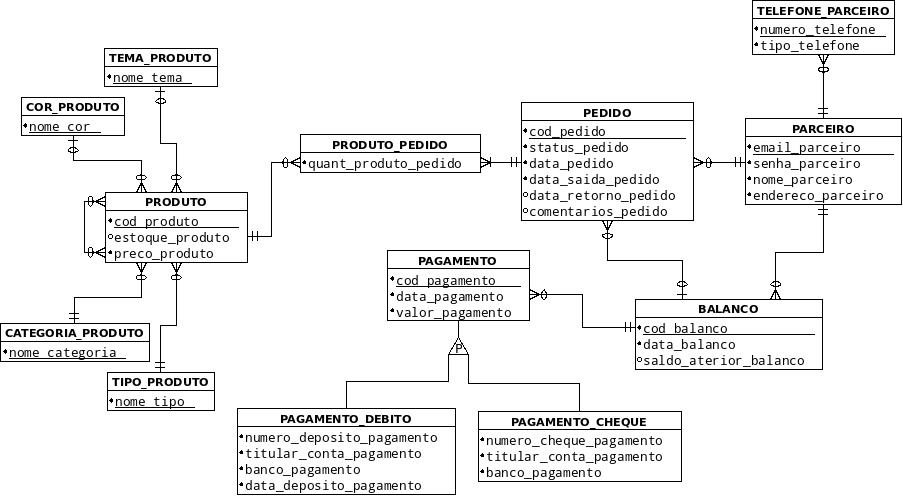
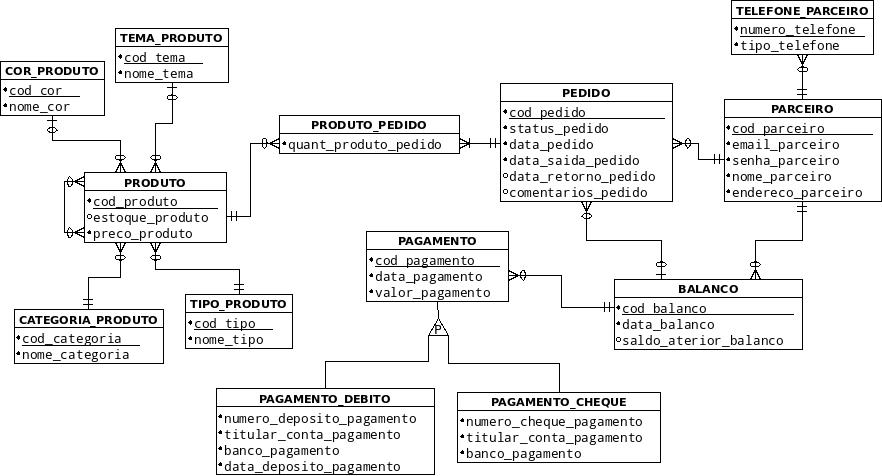
corrigindo modelagem conceitual

diff --git a/docs/cap2.rst b/docs/cap2.rst
@@ -10,7 +10,7 @@ O produtos fornecidos pela loja possuem um série de características onde algum
 
 As características presentes em todo produto são:
 
-- Código para identificar;
+- Código para identifica-lo;
 
 - Preço;
 
@@ -32,7 +32,9 @@ Parceiro
 --------
 É o usuário do sistema e responsável por efetuar os pedidos. Sobre ele guarda-se:
 
-- E-mail do usuário responsável por identificar o parceiro e exercerá a função de login no sistema;
+- Código para identifica-lo;
+
+- E-mail do usuário responsável por exercer a função de login no sistema;
 
 - Nome do parceiro;
 
